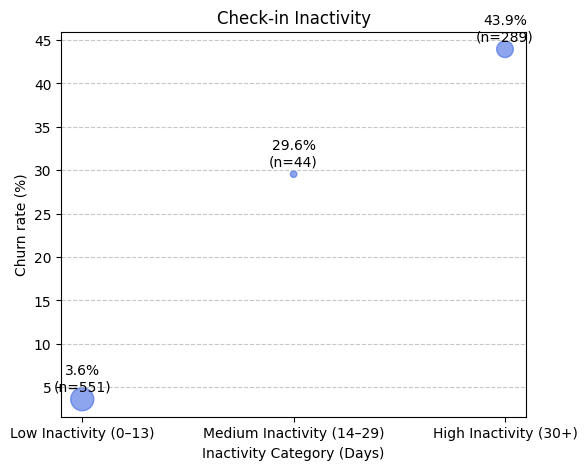
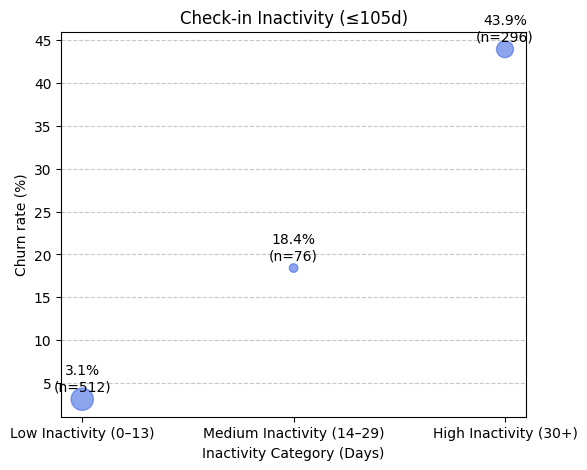
style, description & image

diff --git a/index.md b/index.md
@@ -1,8 +1,8 @@
 # Behind the Membership Door: Behavioral Insights for Retention & Growth
 
-This project investigates member behavior leading to membership cancellation within a 105-day period and provides actionable strategies to retain members, reduce churn, and increase business profitability. I am partnering with a gym manager to better understand current trends in churn and propose retention strategies.
+This project investigates member behaviors leading to membership cancellation within a gym's median membership tenure and provides actionable strategies to retain members, reduce churn, and increase business profitability. I partnered with a gym manager to uncover churn patterns and design targeted interventions.
 
-[View Github Repository for more details](https://github.com/Tony-gh123/Churn-Data-Analysis) <br>
+[View Github Repository](https://github.com/Tony-gh123/Churn-Data-Analysis) <br>
 [Return to Portfolio](https://tony-gh123.github.io/yeral.github.io/)
 
 SKILLS: Python (Numpy, Pandas), SQL, SQLite, Matplotlib, Seaborn, Storytelling, Time Series Analysis, Business Intelligence, Behavioral Analytics. 
@@ -226,6 +226,5 @@ _Disclaimer: The insights in this report are based on synthetic data created for
 
 ## Appendices
 
-Return to HomePage: https://tony-gh123.github.io/yeral.github.io/
-
-See Github Repository for more details:
+[View Github Repository](https://github.com/Tony-gh123/Churn-Data-Analysis) <br>
+[Return to Portfolio](https://tony-gh123.github.io/yeral.github.io/)

diff --git a/README.md b/README.md
@@ -1,6 +1,6 @@
 # Behind the Membership Door: Behavioral Insights for Retention & Growth
 
-This project investigates member behavior leading to membership cancellation within a 105-day period and provides actionable strategies to retain members, reduce churn, and increase business profitability. I am partnering with a gym manager to better understand current trends in churn and propose retention strategies.
+This project investigates member behaviors leading to membership cancellation within a gym's median membership tenure and provides actionable strategies to retain members, reduce churn, and increase business profitability. I partnered with a gym manager to uncover churn patterns and design targeted interventions.
 
 View Project Here: https://tony-gh123.github.io/Churn-Data-Analysis/ <br>
 View Portfolio Here: https://tony-gh123.github.io/yeral.github.io/ 
@@ -226,7 +226,6 @@ _Disclaimer: The insights in this report are based on synthetic data created for
 
 ## Appendices
 
-Return to HomePage: https://tony-gh123.github.io/yeral.github.io/
-
-See Github Repository for more details:
+View Project Here: https://tony-gh123.github.io/Churn-Data-Analysis/ <br>
+View Portfolio Here: https://tony-gh123.github.io/yeral.github.io/ 
 
